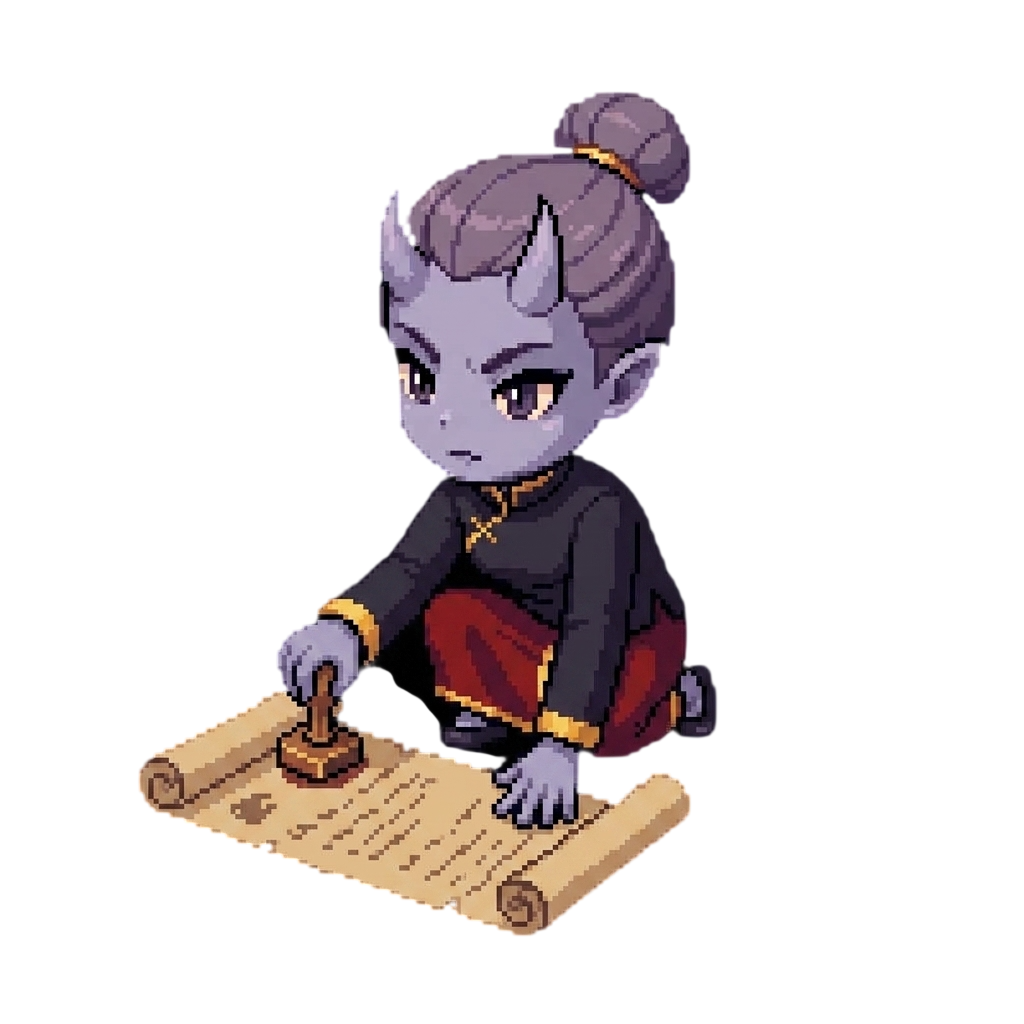
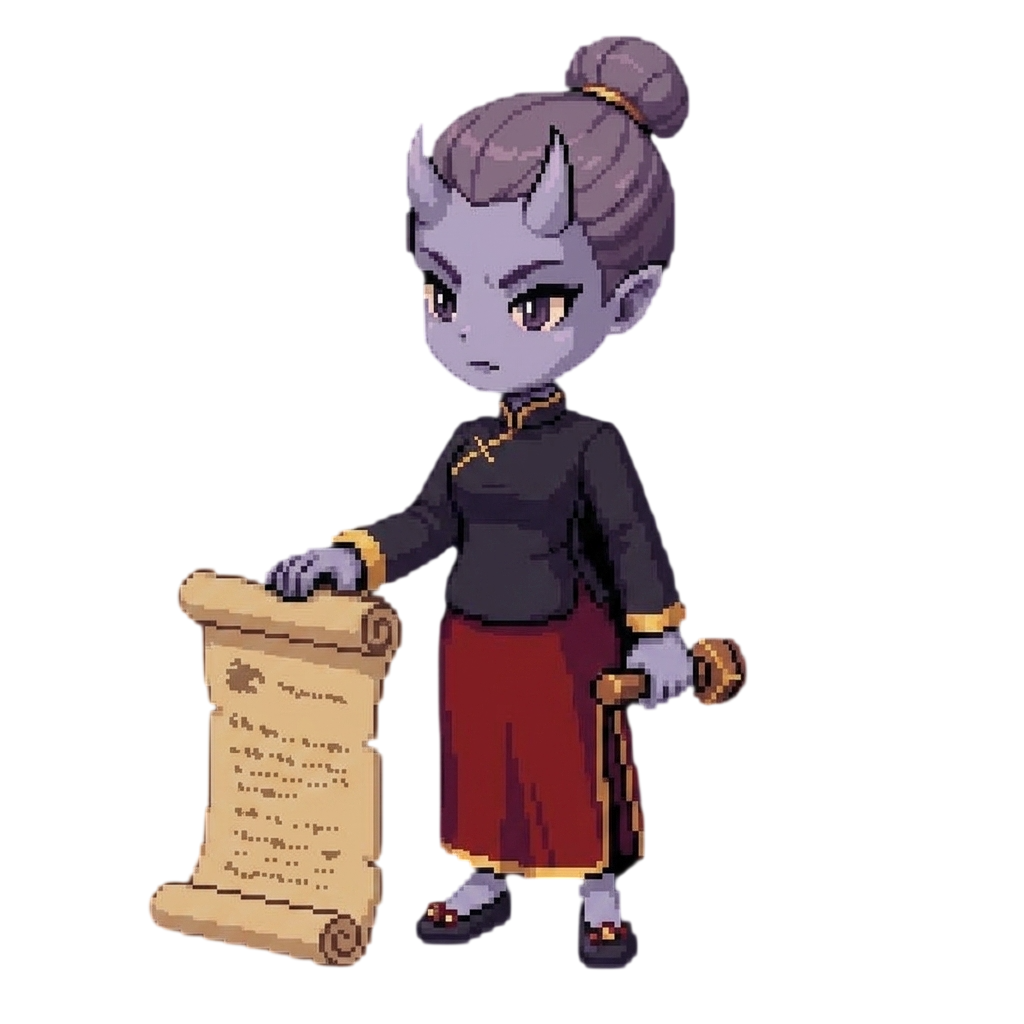
อเวจี: แก้สะพานไม้เดินข้ามไม่ได้ + ซัดไฟเร่งทัณฑ์ด้วยเว้นวรรค
- สะพานไม้เหนือลาวาเดินข้ามไม่ได้: ตัวตรวจลาวาใช้แค่ (r-b > 90 && r > 150)
  ซึ่งไปกินไม้สะพานสีน้ำตาลอ่อน (219,162,121) ด้วย ราวสะพานเลยกลายเป็นกำแพงตั้งขวางทั้งเส้น
  เพิ่มเกณฑ์เขียว g < r*0.62 (ลาวา g/r ~0.35 · ไม้ ~0.7)
  ทดสอบ: ข้ามสะพานได้เป็นเส้นตรง 200 px จากเดิมต้องอ้อม 682 px · ช่องเดินได้ 9227 → 9452

- ยมบาทลงมือลงทัณฑ์เองได้ (ตามที่เป้ขอ) — ยืนที่สถานีที่กำลังลงทัณฑ์แล้วกดเว้นวรรค
  ปุ่มเดียวกับฟาดเปรตเปลี่ยนความหมายตามที่ยืนเอง
  ใช้ลูกไฟ 1 ลูก · ทัณฑ์เดินเร็วขึ้น 11 · แต่กรรมตกที่ท่าน +0.3 ทุกครั้ง
  (แกนเกมคือทัณฑ์ที่เกินหมายมาอยู่ที่ผู้ตัดสิน ปุ่มนี้ต้องมีราคา)
  ส่งคนเมตตา ≥ 8 ไปคุม กรรมตกครึ่งเดียว

- บันทึกไว้ใน CONCEPT: GitHub Pages แคชไฟล์ละ 10 นาที แยกกันทีละไฟล์
  push แล้วเปิดทันทีจะได้ของผสมรุ่น ต้อง Cmd+Shift+R

Claude-Session: https://claude.ai/code/session_01Atn2WvhMFfNgBYGHjYDiGa

Changed region(s): [[0.125, 0.0312, 0.75, 0.9688]]

diff --git a/src/ui.js b/src/ui.js
@@ -361,14 +361,16 @@ function drawTabHeads() {
 let atkSig = '';
 function drawAtk() {
   const btn = $('#atk'), fire = g.powerOf('roar');
-  const sig = `${g.mobs.length}/${fire.ammo}/${g.over ? 1 : 0}`;
+  // ปุ่มเปลี่ยนความหมายตามที่ยืน — ที่สถานีคือซัดไฟเร่งทัณฑ์ ไม่ใช่ฟาดเปรต
+  const st = g.over ? null : g.stationInReach();
+  const sig = `${g.mobs.length}/${fire.ammo}/${g.over ? 1 : 0}/${st ? st.def.k : ''}`;
   if (sig === atkSig) return;                  // เรียกได้ทุกเฟรม แต่แตะ DOM เฉพาะตอนเปลี่ยนจริง
   atkSig = sig;
-  btn.hidden = !g.mobs.length || !!g.over;
+  btn.hidden = !!g.over || (!g.mobs.length && !st);
   if (btn.hidden) return;
-  btn.textContent = fire.ammo > 0
-    ? `⚔ ฟาดเปรต (${g.mobs.length}) · ลูกไฟ ×${fire.ammo}`
-    : '⚔ ลูกไฟหมด — เดินไปเก็บบนแผนที่';
+  const label = st ? `🔥 ซัดไฟเร่งทัณฑ์ที่${st.def.name}` : `⚔ ฟาดเปรต (${g.mobs.length})`;
+  btn.textContent = fire.ammo > 0 ? `${label} · ลูกไฟ ×${fire.ammo}`
+                                  : '⚔ ลูกไฟหมด — เดินไปเก็บบนแผนที่';
   btn.style.color = fire.ammo > 0 ? 'var(--gold)' : 'var(--destructive)';
 }
 
@@ -613,8 +615,12 @@ function openHelp() {
       <li><b>ศูนย์ดาว = โดนลูกไฟ</b> บารมีหาย 1 ใน 5 · โดนครบห้าครั้งจบเกม
           เดินไปเก็บ<b>หีบยา</b>เติมบารมีได้</li>
       <li>ทุก 5 คดีจะมี <b>เปรต</b> ขึ้นมาก่อกวน ปล่อยไว้ระเบียบตกเรื่อย ๆ — ฟาดได้ 3 ทาง:
-          กดปุ่ม <b>⚔ ฟาดเปรต</b> ที่แถบล่าง · กด <b>เว้นวรรค</b> · หรือคลิกที่ตัวมันบนฉาก
+          กดปุ่ม <b>⚔</b> ที่แถบล่าง · กด <b>เว้นวรรค</b> · หรือคลิกที่ตัวมันบนฉาก
           (ใช้ <b>ลูกไฟ</b> ลูกละครั้ง หมดแล้วเดินไปเก็บบนแผนที่) หรือจ้าง<b>ยักษ์ทวารบาล</b>ให้ไล่ปราบแทน</li>
+      <li><b>ลงมือลงทัณฑ์เอง</b> — เดินไปยืนที่สถานีที่กำลังลงทัณฑ์อยู่ แล้วกด <b>เว้นวรรค</b>
+          (หรือปุ่มเดียวกัน มันจะเปลี่ยนเป็น 🔥 ซัดไฟเร่งทัณฑ์) ทัณฑ์จะเดินเร็วขึ้นทันที
+          — แต่<b>ลงมือเองก็เป็นกรรมของท่านเหมือนกัน</b> ครั้งละนิดหน่อย
+          ส่งคนเมตตาสูงอย่างบุญไปคุม กรรมจะตกใส่ท่านครึ่งเดียว</li>
       <li><b>จ้างยมทูตเพิ่ม</b>อยู่ที่แท็บ <b>ยมทูต</b> ใต้ฉาก (ยักษ์ทวารบาลก็อยู่แท็บนั้น) ·
           สร้างสถานีเพิ่มอยู่ที่แท็บ <b>ก่อสร้าง</b></li>
       <li><b>กดตัวละครหรือวิญญาณบนฉาก</b> แล้วดูรายละเอียดที่แผง <b>ข้อมูล</b> ด้านขวา —
@@ -768,3 +774,5 @@ bossModal('โซนสุวรรณภูมิ',
   '"สามร้อยปีที่แล้วโซนนี้มีผู้คุมสิบสองคน ตอนนี้เหลือสามคนกับกองสำนวนสูงเท่าตัวเจ้า ' +
   'ข้าไม่สนว่าเจ้าจะทำยังไง แต่จำไว้ข้อเดียว — ทัณฑ์ที่เกินกรรม มันไม่ได้หายไปไหน มันมาอยู่ที่ผู้ตัดสิน"',
   'เริ่มงาน');
+
+window.G = g;

diff --git a/src/game.js b/src/game.js
@@ -551,17 +551,65 @@ const API = {
     return bi < 0 ? null : { i: bi, m: this.mobs[bi], d: bd };
   },
 
-  /** ปุ่มฟาด (และปุ่มเว้นวรรค) — อยู่ในระยะก็ฟาดเลย ไกลก็เดินเข้าไปหาก่อน */
+  /** สถานีที่กำลังลงทัณฑ์และเรายืนอยู่ใกล้พอจะลงมือเอง */
+  stationInReach() {
+    const P = this.player;
+    let best = null, bd = BAL.smiteReach;
+    for (const st of this.stations) {
+      if (!st.soul) continue;
+      const d = Math.hypot((st.def.sx ?? st.def.x) - P.x, (st.def.sy ?? st.def.y) - P.y);
+      if (d < bd) { bd = d; best = st; }
+    }
+    return best;
+  },
+
+  /** ปุ่มฟาด (และปุ่มเว้นวรรค) — ทำอะไรขึ้นกับว่ายืนอยู่ตรงไหน
+   *  เปรตประชิด → ฟาดเปรต · ยืนที่สถานีที่กำลังลงทัณฑ์ → ซัดไฟเร่งทัณฑ์ · ไกล → เดินไปหาเปรต */
   attack() {
     const n = this.nearestMob();
-    if (!n) { this.log('ยังไม่มีเปรตในโซนตอนนี้', 'event'); return false; }
-    if (n.d <= MOB.reach) return this.strike(n.i, 'ท่าน');
-    if (this.walkTo(n.m.x, n.m.y)) {
-      this.log('เดินเข้าไปหาเปรต — ถึงตัวแล้วจะฟาดให้เอง', 'act');
-      return true;
+    if (n && n.d <= MOB.reach) return this.strike(n.i, 'ท่าน');
+    const st = this.stationInReach();
+    if (st) return this.smite(st);
+    if (n) {
+      if (this.walkTo(n.m.x, n.m.y)) {
+        this.log('เดินเข้าไปหาเปรต — ถึงตัวแล้วจะฟาดให้เอง', 'act');
+        return true;
+      }
+      this.log('เปรตตนนั้นอยู่ฝั่งที่เดินไปไม่ถึง — รอให้มันเดินเข้ามาก่อน', 'bad');
+      return false;
     }
-    this.log('เปรตตนนั้นอยู่ฝั่งที่เดินไปไม่ถึง — รอให้มันเดินเข้ามาก่อน', 'bad');
+    this.log('ไม่มีอะไรให้ลงมือตรงนี้ — ไปยืนที่สถานีที่กำลังลงทัณฑ์แล้วกดใหม่', 'event');
     return false;
+  },
+
+  /** ซัดไฟใส่วิญญาณที่กำลังรับทัณฑ์ — เร่งให้จบเร็วขึ้น แต่ลงมือเองก็เป็นกรรมของเรา
+   *  (แกนของเกมคือ "ทัณฑ์ที่เกินกรรมมันมาอยู่ที่ผู้ตัดสิน" — ปุ่มนี้ต้องมีราคาเสมอ) */
+  smite(st) {
+    const fire = this.powerOf('roar');
+    if (fire.ammo <= 0) {
+      if (!this.noAmmoAt || Date.now() - this.noAmmoAt > 4000) {
+        this.noAmmoAt = Date.now();
+        this.log('🔥 ลูกไฟหมด ซัดไม่ออก — เดินไปเก็บลูกไฟที่ตกอยู่บนแผนที่ก่อน', 'bad');
+      }
+      return false;
+    }
+    if (this.smiteAt && Date.now() - this.smiteAt < 420) return false;   // กันรัวเกินไป
+    this.smiteAt = Date.now();
+    fire.ammo--;
+
+    const d = st.def, sx = d.sx ?? d.x, sy = d.sy ?? d.y;
+    st.progress += BAL.smiteGain;
+    this.swingUntil = Date.now() + 480;
+    this.player.face = sx < this.player.x ? -1 : 1;
+    this.fxHits.push({ t: Date.now(), x: sx, y: sy });
+
+    const c = this.crewOf(st.crewK);
+    const k = Math.round(BAL.smiteKarma * (c && c.metta >= 8 ? 0.5 : 1) * 10) / 10;
+    this.karma = clamp(this.karma + k, 0, 100);
+    this.log(`🔥 ท่านซัดไฟใส่${st.soul.who}เอง — ทัณฑ์เดินเร็วขึ้น · กรรมท่าน +${k}`, 'act');
+    if (st.progress >= st.need) this.finish(st);
+    this.onChange();
+    return true;
   },
 
   /** ฟาดเปรตตนที่ i — คืน true เมื่อฟาดออกจริง */

diff --git a/_walktest.html b/_walktest.html
@@ -1,0 +1,31 @@
+<!doctype html><meta charset="utf-8"><body style="margin:0;background:#111">
+<canvas id="c" width="1527" height="704" style="width:1527px;display:block"></canvas>
+<div id="o" style="font:14px monospace;color:#0f0;background:#000;padding:6px;white-space:pre"></div>
+<script type="module">
+import { SCENE, STATIONS, CREW, ITEM_SPOTS, SPOTS } from './src/data.js';
+import { buildWalk, canWalk, findPath } from './src/walk.js';
+const im = new Image(); im.src = 'img/scene.png';
+im.onload = () => {
+  buildWalk(im);
+  const cx = document.getElementById('c').getContext('2d');
+  cx.drawImage(im, 0, 0, SCENE.w, SCENE.h);
+  cx.fillStyle = 'rgba(0,255,120,.34)';
+  let n = 0;
+  for (let y = 0; y < SCENE.h; y += 8) for (let x = 0; x < SCENE.w; x += 8)
+    if (canWalk(x + 4, y + 4)) { cx.fillRect(x, y, 8, 8); n++; }
+  const P = [SPOTS.bench.x + 60, SPOTS.bench.y];
+  const bad = [...STATIONS.map(s => ['สถานี ' + s.name, s.x, s.y]),
+               ...CREW.map(c => ['ยมทูต ' + c.name, c.hx, c.hy]),
+               ...ITEM_SPOTS.map((s, i) => ['ของ#' + i, s[0], s[1]])]
+    .filter(([nm, x, y]) => !canWalk(x, y) || !findPath(P[0], P[1], x, y)?.length);
+  const cross = findPath(460, 356, 660, 356);
+  let len = 0, px = 460, py = 356;
+  (cross || []).forEach(q => { len += Math.hypot(q[0]-px, q[1]-py); px=q[0]; py=q[1]; });
+  cx.strokeStyle = '#ff0'; cx.lineWidth = 3; cx.beginPath(); cx.moveTo(460,356);
+  (cross||[]).forEach(q => cx.lineTo(q[0], q[1])); cx.stroke();
+  document.getElementById('o').textContent =
+    `ช่องเดินได้ ${n}\nข้ามสะพานไม้: ยาว ${len.toFixed(0)} px (เส้นตรง 200)\n` +
+    (bad.length ? 'เดินไปไม่ถึง: ' + bad.map(b => b[0]).join(', ') : 'ทุกจุดสำคัญเดินไปถึงหมด');
+  document.title='done';
+};
+</script></body>

diff --git a/src/walk.js b/src/walk.js
@@ -14,9 +14,14 @@ const ROWS = Math.ceil(SCENE.h / CELL);
 let mask = null;                                  // null = ยังไม่สร้าง · 'off' = อ่านพิกเซลไม่ได้
 
 const inRect = (x, y, r) => x >= r[0] && y >= r[1] && x <= r[2] && y <= r[3];
+// ลาวาจริงเป็นส้ม-แดงจัด: แดงสูง เขียวต่ำกว่าแดงมาก น้ำเงินแทบไม่มี
+// เงื่อนไขเดิม (แดง-น้ำเงิน > 90) ไปกินไม้สะพานสีน้ำตาลอ่อน (219,162,121) ด้วย
+// ผลคือราวสะพานไม้เหนือลาวากลายเป็นกำแพงขวางทางทั้งเส้น เดินข้ามไม่ได้ (เจอ 7 ก.ย. 2569)
+// เกณฑ์เขียวคือตัวแยก: ลาวา g/r ราว 0.3-0.4 · ไม้ g/r ราว 0.7
 const isLava = (d, x, y) => {
   const i = ((y | 0) * SCENE.w + (x | 0)) * 4;
-  return d[i] - d[i + 2] > 90 && d[i] > 150;
+  const r = d[i], g = d[i + 1], b = d[i + 2];
+  return r > 150 && r - b > 90 && g < r * 0.62;
 };
 
 /** สร้างตารางครั้งเดียวตอนภาพฉากโหลดเสร็จ — เรียกซ้ำได้ ไม่ทำงานรอบสอง */

diff --git a/src/data.js b/src/data.js
@@ -261,6 +261,9 @@ export const BAL = {
   kpiWin: 5,              // ผ่านตรวจกี่รอบถึงจบเกม
   coinPerCase: 46,        // ฐานรายได้ต่อคดี
   eventEvery: 45,
+  smiteReach: 140,       // ยืนห่างสถานีไม่เกินนี้ถึงจะซัดไฟเร่งทัณฑ์ได้
+  smiteGain: 11,         // คืบหน้าที่ได้ต่อการซัดหนึ่งครั้ง (need ของคดีอยู่ราว 33-93)
+  smiteKarma: 0.3,       // ลงมือเองก็เป็นกรรมของเราเหมือนกัน — ครึ่งเดียวถ้าผู้คุมเมตตาสูง
   startHp: 100,          // บารมี — ตัดสินพลาดแล้วโดนพ่อหัก
   hpBad: 15,             // คำตัดสินแย่ (ต่ำกว่า 50)
   hpTerrible: 26,        // คำตัดสินแย่มาก (ต่ำกว่า 35)

diff --git a/ASSET-PROMPTS.md b/ASSET-PROMPTS.md
@@ -231,6 +231,7 @@ molten orange lava glow, antique temple gold
 | 5 | `crew-nira-work` | นิราประจำสถานี | **แนบ `img/crew-nira.png`** · working pose: pressing her wooden seal stamp down onto an open scroll, other hand steadying the paper, leaning forward slightly · same black long-sleeve jacket, same dark red gold-trimmed long skirt, same hair bun |
 | 6 | `mob-pret2` | เปรตแบบที่สอง | emaciated Thai hungry ghost (pret), extremely tall and thin with pinhole mouth and swollen belly, hunched forward reaching with long clawed fingers, pale grey-green skin, tattered loincloth |
 | 7 | `item-fuel` | กองฟืนตกบนแผนที่ | bundle of dark charcoal logs tied with rough rope, faint orange embers glowing between the pieces, small pile resting on the ground |
+| 7.5 | `fx-flame` | ไฟที่กระทะทองแดง (ทางเลือก) | ตอนนี้โค้ดเอา `fx-fireball` (ทรงลูกอุกกาบาตพุ่งนอน) มาใช้แทนไปก่อน ดูโอเคแต่ไม่พอดีนัก · ถ้าอยากให้สวยขึ้น gen ทรงไฟลุกตั้งขึ้น: a single tall vertical tongue of orange fire licking upward, narrow base widening then tapering to a wisp at the top, bright yellow-white core, no fuel or logs, no ground, effect only |
 | 8 | `fx-ice` | ทัณฑ์โลกันตนรก | burst of jagged pale-blue ice shards radiating outward from a center point, frost mist, cold rim light, no ground, effect only |
 | 9 | `spirit4` `spirit5` | วิญญาณในคิว (ตอนนี้มี 3 แบบ) | translucent pale ghost of a dead Thai commoner standing with head bowed and hands together in a wai, lower body fading into wisps |
 
